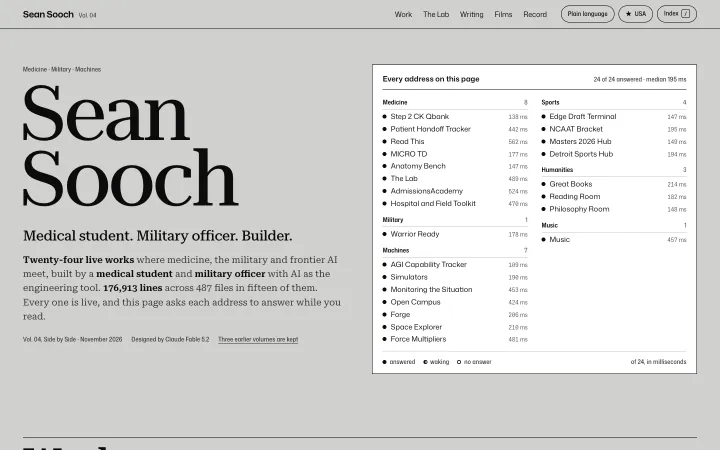
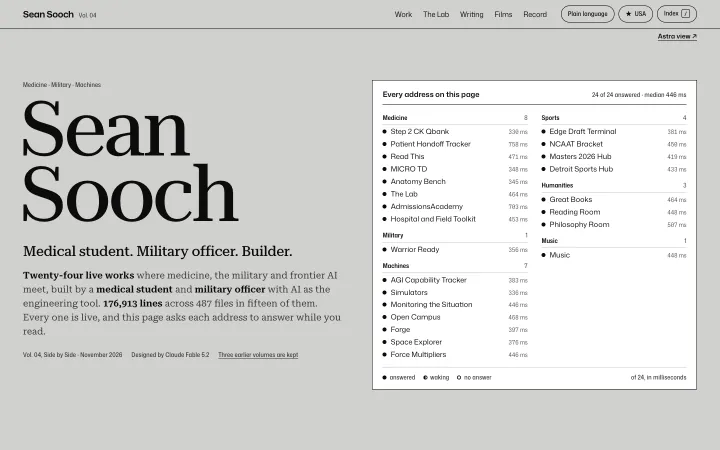
Works: Edge takes its second edition, "Card Back", and its plate
Edge (2026-11-22, Claude Fable 5.2): Edition 1 is retired to
edge-v1-a16.pages.dev and Edition 2 "Card Back" is current. The entry's two
tellings now say what the app does in season (a Sleeper or public ESPN league
sync), the stale-data note is gone because production carries today's
harvest, and the test count is restated at 22,560 lines. The plate is taken
from the live board with its player cards (plate_click closes the intro,
plate_scroll frames the cards); vol4 and card were retaken after it.

tools/plates.mjs: a work's plate_click is honoured, as a volume's already
was. tools/edition_test.py: the sitemap's home-page date moves to 2026-11-22,
the newest edition the page now shows.

Built on origin/main at 659703c. A first attempt was made on a tree seven
commits behind it; the pre-deploy audit showed lab/apps.json differing, which
was three shipped lessons this tree did not have, so nothing was uploaded and
the change was re-applied here.

Checks: edition_test 92 passed; edition-walk 504 checks, 0 problems.

diff --git a/index.html b/index.html
@@ -10,7 +10,7 @@
 <meta property="og:description" content="Twenty-four live works where medicine, the military and frontier AI meet, built by a medical student and military officer with AI as the engineering tool. 176,913 lines across 487 files in fifteen of them. Every one is live, and this page asks each address to answer while you read.">
 <meta property="og:type" content="website">
 <meta property="og:url" content="https://seansooch.dev/">
-<meta property="og:image" content="https://seansooch.dev/plates/card.jpg?v=da338b55b2">
+<meta property="og:image" content="https://seansooch.dev/plates/card.jpg?v=863c1e0227">
 <meta property="og:image:width" content="1200">
 <meta property="og:image:height" content="630">
 <meta name="twitter:card" content="summary_large_image">
@@ -156,15 +156,15 @@
       </header>
       <div class="cap">
         <p class="say"><span class="t">A course in core medicine, taught one picture at a time. Each lesson takes a single idea, starting with how the heart fills and empties, builds it step by step in plain language with animated visuals, then shows how disease and common drug classes change the picture. Educational only, not for clinical use.</span><span class="p">Short visual lessons that teach how the body works, one step at a time and in plain language. Start with the heart, then see what common medicines do to it. For learning only, not for patient care.</span></p>
-        <dl class="stats"><div><dt>lessons</dt><dd data-lab-n>27</dd></div><div><dt>units</dt><dd>9</dd></div><div><dt>first lesson</dt><dd>Oct 2026</dd></div></dl>
+        <dl class="stats"><div><dt>lessons</dt><dd data-lab-n>30</dd></div><div><dt>units</dt><dd>9</dd></div><div><dt>first lesson</dt><dd>Oct 2026</dd></div></dl>
         
         <p class="cap-foot"><a class="go" href="https://seansooch.dev/lab/" target="_blank" rel="noopener">Start the course<span aria-hidden="true"> ↗</span></a><span class="lbl host">seansooch.dev/lab</span></p>
       </div>
       
     </article>
     <div class="outline" data-worlds="med" aria-label="The course in outline">
-      <p class="lbl outline-h"><span><span data-lab-n>27</span> lessons in nine units. Educational only, not for clinical use.</span><a href="/lab/">The course page keeps your place<span aria-hidden="true"> →</span></a></p>
-      <div class="outline-cols"><div class="unit-col"><h5><span class="lbl">Unit 1</span>The heart, the kidney and blood pressure</h5><ul><li><a href="/lab/pressure-volume-loop/" data-lesson="pressure-volume-loop">Pressure–Volume Loop</a></li><li><a href="/lab/nephron-diuretics/" data-lesson="nephron-diuretics">The Nephron and Diuretics</a></li><li><a href="/lab/frank-starling-cardiac-output/" data-lesson="frank-starling-cardiac-output">Frank–Starling and Cardiac Output</a></li><li><a href="/lab/blood-pressure-regulation/" data-lesson="blood-pressure-regulation">Blood Pressure Regulation</a></li><li><a href="/lab/renin-angiotensin-aldosterone/" data-lesson="renin-angiotensin-aldosterone">The Renin–Angiotensin–Aldosterone System</a></li></ul></div><div class="unit-col"><h5><span class="lbl">Unit 2</span>Nerves, rhythm and muscle</h5><ul><li><a href="/lab/autonomic-synapse/" data-lesson="autonomic-synapse">The Autonomic Synapse</a></li><li><a href="/lab/cardiac-action-potential/" data-lesson="cardiac-action-potential">The Cardiac Action Potential</a></li><li><a href="/lab/neuromuscular-junction/" data-lesson="neuromuscular-junction">The Neuromuscular Junction</a></li></ul></div><div class="unit-col"><h5><span class="lbl">Unit 3</span>Breath and blood</h5><ul><li><a href="/lab/oxygen-hemoglobin-dissociation/" data-lesson="oxygen-hemoglobin-dissociation">Oxygen and Hemoglobin</a></li><li><a href="/lab/ventilation-perfusion/" data-lesson="ventilation-perfusion">Ventilation, Perfusion and the Alveolus</a></li><li><a href="/lab/acid-base/" data-lesson="acid-base">Acid–Base Balance</a></li><li><a href="/lab/coagulation-cascade/" data-lesson="coagulation-cascade">The Coagulation Cascade</a></li></ul></div><div class="unit-col"><h5><span class="lbl">Unit 4</span>Hormones</h5><ul><li><a href="/lab/insulin-glucose/" data-lesson="insulin-glucose">Insulin and Glucose</a></li><li><a href="/lab/thyroid-axis/" data-lesson="thyroid-axis">The Thyroid Axis</a></li><li><a href="/lab/hpa-axis-steroids/" data-lesson="hpa-axis-steroids">The HPA Axis and Steroids</a></li></ul></div><div class="unit-col"><h5><span class="lbl">Unit 5</span>The gut and drug handling</h5><ul><li><a href="/lab/gastric-acid-secretion/" data-lesson="gastric-acid-secretion">Stomach Acid and the Parietal Cell</a></li><li><a href="/lab/pharmacokinetics/" data-lesson="pharmacokinetics">Pharmacokinetics: Drug Levels Over Time</a></li></ul></div><div class="unit-col"><h5><span class="lbl">Unit 6</span>Inflammation, infection, immunity and cancer</h5><ul><li><a href="/lab/arachidonic-acid-nsaids/" data-lesson="arachidonic-acid-nsaids">Inflammation and the Arachidonic Acid Pathway</a></li><li><a href="/lab/bacterial-cell-antibiotics/" data-lesson="bacterial-cell-antibiotics">The Bacterial Cell and Antibiotic Targets</a></li><li><a href="/lab/immune-response/" data-lesson="immune-response">The Immune Response</a></li><li><a href="/lab/cell-cycle-chemotherapy/" data-lesson="cell-cycle-chemotherapy">The Cell Cycle and Chemotherapy</a></li></ul></div><div class="unit-col"><h5><span class="lbl">Unit 7</span>Water and calcium balance</h5><ul><li><a href="/lab/adh-water-balance/" data-lesson="adh-water-balance">ADH and Water Balance</a></li><li><a href="/lab/calcium-pth-vitamin-d/" data-lesson="calcium-pth-vitamin-d">Calcium, PTH and Vitamin D</a></li></ul></div><div class="unit-col"><h5><span class="lbl">Unit 8</span>Lung volumes</h5><ul><li><a href="/lab/spirometry-lung-volumes/" data-lesson="spirometry-lung-volumes">Spirometry and Lung Volumes</a></li></ul></div><div class="unit-col"><h5><span class="lbl">Unit 9</span>Cells, membranes and signals</h5><ul><li><a href="/lab/diffusion-osmosis-iv-fluids/" data-lesson="diffusion-osmosis-iv-fluids">Diffusion, Osmosis and IV Fluids</a></li><li><a href="/lab/na-k-pump-digoxin/" data-lesson="na-k-pump-digoxin">The Na⁺/K⁺ Pump (digoxin)</a></li><li><a href="/lab/resting-membrane-potential-potassium/" data-lesson="resting-membrane-potential-potassium">Resting Membrane Potential and Potassium</a></li></ul></div><div class="unit-col" data-lab-more hidden><h5><span class="lbl">Added since</span>Newest lessons</h5><ul data-lab-new></ul></div></div>
+      <p class="lbl outline-h"><span><span data-lab-n>30</span> lessons in nine units. Educational only, not for clinical use.</span><a href="/lab/">The course page keeps your place<span aria-hidden="true"> →</span></a></p>
+      <div class="outline-cols"><div class="unit-col"><h5><span class="lbl">Unit 1</span>The heart, the kidney and blood pressure</h5><ul><li><a href="/lab/pressure-volume-loop/" data-lesson="pressure-volume-loop">Pressure–Volume Loop</a></li><li><a href="/lab/nephron-diuretics/" data-lesson="nephron-diuretics">The Nephron and Diuretics</a></li><li><a href="/lab/frank-starling-cardiac-output/" data-lesson="frank-starling-cardiac-output">Frank–Starling and Cardiac Output</a></li><li><a href="/lab/blood-pressure-regulation/" data-lesson="blood-pressure-regulation">Blood Pressure Regulation</a></li><li><a href="/lab/renin-angiotensin-aldosterone/" data-lesson="renin-angiotensin-aldosterone">The Renin–Angiotensin–Aldosterone System</a></li></ul></div><div class="unit-col"><h5><span class="lbl">Unit 2</span>Nerves, rhythm and muscle</h5><ul><li><a href="/lab/autonomic-synapse/" data-lesson="autonomic-synapse">The Autonomic Synapse</a></li><li><a href="/lab/cardiac-action-potential/" data-lesson="cardiac-action-potential">The Cardiac Action Potential</a></li><li><a href="/lab/neuromuscular-junction/" data-lesson="neuromuscular-junction">The Neuromuscular Junction</a></li></ul></div><div class="unit-col"><h5><span class="lbl">Unit 3</span>Breath and blood</h5><ul><li><a href="/lab/oxygen-hemoglobin-dissociation/" data-lesson="oxygen-hemoglobin-dissociation">Oxygen and Hemoglobin</a></li><li><a href="/lab/ventilation-perfusion/" data-lesson="ventilation-perfusion">Ventilation, Perfusion and the Alveolus</a></li><li><a href="/lab/acid-base/" data-lesson="acid-base">Acid–Base Balance</a></li><li><a href="/lab/coagulation-cascade/" data-lesson="coagulation-cascade">The Coagulation Cascade</a></li></ul></div><div class="unit-col"><h5><span class="lbl">Unit 4</span>Hormones</h5><ul><li><a href="/lab/insulin-glucose/" data-lesson="insulin-glucose">Insulin and Glucose</a></li><li><a href="/lab/thyroid-axis/" data-lesson="thyroid-axis">The Thyroid Axis</a></li><li><a href="/lab/hpa-axis-steroids/" data-lesson="hpa-axis-steroids">The HPA Axis and Steroids</a></li></ul></div><div class="unit-col"><h5><span class="lbl">Unit 5</span>The gut and drug handling</h5><ul><li><a href="/lab/gastric-acid-secretion/" data-lesson="gastric-acid-secretion">Stomach Acid and the Parietal Cell</a></li><li><a href="/lab/pharmacokinetics/" data-lesson="pharmacokinetics">Pharmacokinetics: Drug Levels Over Time</a></li></ul></div><div class="unit-col"><h5><span class="lbl">Unit 6</span>Inflammation, infection, immunity and cancer</h5><ul><li><a href="/lab/arachidonic-acid-nsaids/" data-lesson="arachidonic-acid-nsaids">Inflammation and the Arachidonic Acid Pathway</a></li><li><a href="/lab/bacterial-cell-antibiotics/" data-lesson="bacterial-cell-antibiotics">The Bacterial Cell and Antibiotic Targets</a></li><li><a href="/lab/immune-response/" data-lesson="immune-response">The Immune Response</a></li><li><a href="/lab/cell-cycle-chemotherapy/" data-lesson="cell-cycle-chemotherapy">The Cell Cycle and Chemotherapy</a></li></ul></div><div class="unit-col"><h5><span class="lbl">Unit 7</span>Water and calcium balance</h5><ul><li><a href="/lab/adh-water-balance/" data-lesson="adh-water-balance">ADH and Water Balance</a></li><li><a href="/lab/calcium-pth-vitamin-d/" data-lesson="calcium-pth-vitamin-d">Calcium, PTH and Vitamin D</a></li></ul></div><div class="unit-col"><h5><span class="lbl">Unit 8</span>Lung volumes</h5><ul><li><a href="/lab/spirometry-lung-volumes/" data-lesson="spirometry-lung-volumes">Spirometry and Lung Volumes</a></li></ul></div><div class="unit-col"><h5><span class="lbl">Unit 9</span>Cells, membranes and signals</h5><ul><li><a href="/lab/diffusion-osmosis-iv-fluids/" data-lesson="diffusion-osmosis-iv-fluids">Diffusion, Osmosis and IV Fluids</a></li><li><a href="/lab/na-k-pump-digoxin/" data-lesson="na-k-pump-digoxin">The Na⁺/K⁺ Pump (digoxin)</a></li><li><a href="/lab/resting-membrane-potential-potassium/" data-lesson="resting-membrane-potential-potassium">Resting Membrane Potential and Potassium</a></li><li><a href="/lab/nerve-action-potential-local-anesthetics/" data-lesson="nerve-action-potential-local-anesthetics">Nerve Action Potential and Local Anesthetics</a></li><li><a href="/lab/myelin-conduction-velocity/" data-lesson="myelin-conduction-velocity">Myelin and Conduction Velocity (MS, GBS)</a></li><li><a href="/lab/ion-channels-channelopathies/" data-lesson="ion-channels-channelopathies">Ion Channels and Channelopathies (CFTR, congenital long QT)</a></li></ul></div><div class="unit-col" data-lab-more hidden><h5><span class="lbl">Added since</span>Newest lessons</h5><ul data-lab-new></ul></div></div>
     </div><article class="work pair" id="admissions" data-worlds="med">
       <figure class="plate-fig"><div class="plate plate-type" aria-hidden="true"><span>Admissions<wbr>Academy</span></div></figure>
       <header class="work-h">
@@ -316,18 +316,18 @@
         
       </article></div>
     </section><section class="world" id="world-sports" data-has="spt" aria-labelledby="world-spt">
-      <header class="world-h"><h3 id="world-spt">Sports</h3><p class="lbl">Four works, three with an earlier edition kept</p></header>
+      <header class="world-h"><h3 id="world-spt">Sports</h3><p class="lbl">Four works, four with an earlier edition kept</p></header>
       <article class="work pair" id="edge" data-worlds="spt">
-      <figure class="plate-fig"><a class="plate" href="https://edge-7yj.pages.dev/" target="_blank" rel="noopener" tabindex="-1" aria-hidden="true"><img src="/plates/edge-720.webp?v=2a5a944854" srcset="/plates/edge-720.webp?v=2a5a944854 720w, /plates/edge.webp?v=88160b10f8 1440w" sizes="(max-width: 860px) 92vw, 46vw" width="1440" height="900" alt="Edge Draft Terminal, as it looked on 9 Nov 2026" decoding="async" loading="lazy"></a></figure>
+      <figure class="plate-fig"><a class="plate" href="https://edge-7yj.pages.dev/" target="_blank" rel="noopener" tabindex="-1" aria-hidden="true"><img src="/plates/edge-720.webp?v=c8b54db21a" srcset="/plates/edge-720.webp?v=c8b54db21a 720w, /plates/edge.webp?v=fba4e25aab 1440w" sizes="(max-width: 860px) 92vw, 46vw" width="1440" height="900" alt="Edge Draft Terminal, as it looked on 22 Nov 2026" decoding="async" loading="lazy"></a></figure>
       <header class="work-h">
-        <p class="cap-top lbl"><span>Sports · Fantasy football</span><span class="live"><i class="dot" data-dot="edge"></i><span data-ms="edge">not asked yet</span><span class="note">data last harvested 6 Sep 2026</span></span></p>
+        <p class="cap-top lbl"><span>Sports · Fantasy football</span><span class="live"><i class="dot" data-dot="edge"></i><span data-ms="edge">not asked yet</span></span></p>
         <h4>Edge Draft Terminal</h4>
         
       </header>
       <div class="cap">
-        <p class="say"><span class="t">Draft intelligence terminal for a 12-team half-PPR league: an 862-player board valued on a weighted seven-source composite and read against the Sleeper room&#x27;s market price, weekly projections priced as points above replacement, Monte Carlo pick-path simulation in a worker, an in-season wire of injuries and market movers, and read-only replay of a live Sleeper draft room. Static PWA with CI-gated deploys and a test suite that also runs against production.</span><span class="p">A fantasy football draft assistant that blends seven rankings and markets into one value per player, flags bargains, simulates what happens before your next pick, and can follow a live Sleeper draft as it happens. Every update is tested end to end before it ships.</span></p>
-        <dl class="stats"><div><dt>players</dt><dd>862</dd></div><div><dt>sources</dt><dd>7</dd></div><div><dt>lines of tests</dt><dd>21,761</dd></div></dl>
-        <p class="lin lbl"><span>Edition 1 · 4 Aug 2026</span></p>
+        <p class="say"><span class="t">Fantasy football terminal for a 12-team half-PPR league, draft and season: an 862-player board valued on a weighted seven-source composite and read against the Sleeper room&#x27;s market price, weekly projections priced as points above replacement, Monte Carlo pick-path simulation in a worker, an in-season wire of injuries and market movers, a league sync that reads a Sleeper or public ESPN league&#x27;s rosters, lineups and matchup from keyless public APIs, and read-only replay of a live Sleeper draft room. Static PWA with a twice-daily harvest, CI-gated deploys and a test suite that also runs against production.</span><span class="p">A fantasy football assistant that blends seven rankings and markets into one value per player, flags bargains, and simulates what happens before your next pick. In season it reads your Sleeper or public ESPN league and shows this week&#x27;s lineup beside your opponent&#x27;s. Every update is tested end to end before it ships.</span></p>
+        <dl class="stats"><div><dt>players</dt><dd>862</dd></div><div><dt>sources</dt><dd>7</dd></div><div><dt>lines of tests</dt><dd>22,560</dd></div></dl>
+        <p class="lin lbl"><span>Edition 2, Card Back · Claude Fable 5.2 · 22 Nov 2026</span><span>Kept: <a href="https://edge-v1-a16.pages.dev" target="_blank" rel="noopener">Edition 1</a></span></p>
         <p class="cap-foot"><a class="go" href="https://edge-7yj.pages.dev/" target="_blank" rel="noopener">Open the draft terminal<span aria-hidden="true"> ↗</span></a><span class="lbl host">edge-7yj.pages.dev</span></p>
       </div>
       
@@ -560,7 +560,7 @@
     </div>
     <div class="colophon-facts">
       <p class="lbl">Set in Roboto Serif, by Greg Gazdowicz of Commercial Type, and Mona Sans, by GitHub.</p>
-      <p class="lbl">Counts recounted 10 Nov 2026. Plates captured 9 Nov 2026 to 17 Nov 2026. Round trips measured in your browser, now.</p>
+      <p class="lbl">Counts recounted 10 Nov 2026. Plates captured 9 Nov 2026 to 22 Nov 2026. Round trips measured in your browser, now.</p>
       <p class="lbl js-only" role="group" aria-label="Appearance">Appearance: <button class="link" type="button" data-theme-set="auto" aria-pressed="true">as your device</button> <button class="link" type="button" data-theme-set="light" aria-pressed="false">light</button> <button class="link" type="button" data-theme-set="dark" aria-pressed="false">dark</button> <button class="link" type="button" data-theme-set="usa" aria-pressed="false">USA</button></p>
       <p class="lbl">© 2026 Sean Sooch · <a href="/record/#editions">Earlier volumes are kept</a> · <a href="#top">Top</a></p>
     </div>

diff --git a/record/index.html b/record/index.html
@@ -10,7 +10,7 @@
 <meta property="og:description" content="How this site is made and kept, apart from the work: every edition it has had, what is counted from source, what your browser measures as you read, and an index of everything on it.">
 <meta property="og:type" content="website">
 <meta property="og:url" content="https://seansooch.dev/record/">
-<meta property="og:image" content="https://seansooch.dev/plates/card.jpg?v=da338b55b2">
+<meta property="og:image" content="https://seansooch.dev/plates/card.jpg?v=863c1e0227">
 <meta property="og:image:width" content="1200">
 <meta property="og:image:height" content="630">
 <meta name="twitter:card" content="summary_large_image">
@@ -95,7 +95,7 @@
         <p class="lbl">Retired with honors, November 2026.</p>
         <a class="go" href="https://seansooch-vol3.pages.dev/" target="_blank" rel="noopener">Open the archive<span aria-hidden="true"> ↗</span></a>
       </article><article class="vol" id="vol4">
-        <div class="plate"><img src="/plates/vol4-720.webp?v=6a64aace66" srcset="/plates/vol4-720.webp?v=6a64aace66 720w, /plates/vol4.webp?v=91e5033574 1440w" sizes="(max-width: 860px) 92vw, 23vw" width="1440" height="900" alt="Vol. 04, Side by Side" decoding="async" loading="lazy"></div>
+        <div class="plate"><img src="/plates/vol4-720.webp?v=dc452cceb1" srcset="/plates/vol4-720.webp?v=dc452cceb1 720w, /plates/vol4.webp?v=5e7e0ce66b 1440w" sizes="(max-width: 860px) 92vw, 23vw" width="1440" height="900" alt="Vol. 04, Side by Side" decoding="async" loading="lazy"></div>
         <p class="cap-top lbl"><span>Vol. 04</span><span>November 2026</span></p>
         <h3>Side by Side</h3>
         <p class="say-s">A neutral room: each work beside its own earlier edition, no color but the work&#x27;s. Designed by Claude Fable 5.2.</p>
@@ -138,9 +138,9 @@
     <h3 class="sub-h">The apps keep editions too</h3>
     <div class="table-wrap sheet"><table class="eds">
       <thead><tr><th scope="col">App</th><th scope="col">Current edition</th><th scope="col">Designed by</th><th scope="col">Issued</th><th scope="col">Kept</th></tr></thead>
-      <tbody><tr><th scope="row"><a href="/#step2">Step 2 CK Qbank</a></th><td>Edition 2, Workroom</td><td>Claude Opus 5.5</td><td>22 Sep 2026</td><td><a href="https://step2-ck-v1.pages.dev" target="_blank" rel="noopener">Edition 1</a></td></tr><tr><th scope="row"><a href="/#handoff">Patient Handoff Tracker</a></th><td>Edition 2, Chart Tab</td><td>Claude Opus 5.5</td><td>22 Sep 2026</td><td><a href="https://handoff-tracker-v1.pages.dev" target="_blank" rel="noopener">Edition 1</a></td></tr><tr><th scope="row"><a href="/#ekg">Read This</a></th><td>Edition 2, Reading Room</td><td>Claude Opus 5.5</td><td>22 Sep 2026</td><td><a href="https://ekg-v1.pages.dev" target="_blank" rel="noopener">Edition 1</a></td></tr><tr><th scope="row"><a href="/#microtd">MICRO TD</a></th><td>Edition 2, Oil Immersion</td><td>Claude Opus 5.5</td><td>22 Sep 2026</td><td><a href="https://micro-td-v1.pages.dev" target="_blank" rel="noopener">Edition 1</a></td></tr><tr><th scope="row"><a href="/#anatomy">Anatomy Bench</a></th><td>Edition 1, Run 01</td><td>Claude Fable 5.2</td><td>10 Nov 2026</td><td><span class="quiet">none yet</span></td></tr><tr><th scope="row"><a href="/#toolkit">Hospital and Field Toolkit</a></th><td>Edition 2, Pocket Cards</td><td>Claude Opus 5.5</td><td>22 Sep 2026</td><td><a href="https://toolkit-v1.pages.dev/toolkit/" target="_blank" rel="noopener">Edition 1</a></td></tr><tr><th scope="row"><a href="/#warrior">Warrior Ready</a></th><td>Edition 2, Scorecard</td><td>Claude Opus 5.5</td><td>22 Sep 2026</td><td><a href="https://warrior-ready-v1.pages.dev" target="_blank" rel="noopener">Edition 1</a></td></tr><tr><th scope="row"><a href="/#agi">AGI Capability Tracker</a></th><td>Edition 4, Blueshift</td><td>Claude Opus 5.5</td><td>6 Oct 2026</td><td><a href="https://agi-tracker-v3.pages.dev" target="_blank" rel="noopener">Edition 3, The Ledger</a>, <a href="https://agi-tracker-v2.pages.dev" target="_blank" rel="noopener">Edition 2</a></td></tr><tr><th scope="row"><a href="/#sims">Simulators</a></th><td>Edition 2, Drawing Set</td><td>Claude Opus 5.5</td><td>22 Sep 2026</td><td><a href="https://simulators-v1.pages.dev" target="_blank" rel="noopener">Edition 1</a></td></tr><tr><th scope="row"><a href="/#situation">Monitoring the Situation</a></th><td>Edition 3, The Broadsheet</td><td>Claude Opus 5.5</td><td>14 Nov 2026</td><td><span class="quiet">none yet</span></td></tr><tr><th scope="row"><a href="/#forge">Forge</a></th><td>Edition 2, Casting Floor</td><td>Claude Opus 5.5</td><td>22 Sep 2026</td><td><a href="https://forge-v1.pages.dev" target="_blank" rel="noopener">Edition 1</a></td></tr><tr><th scope="row"><a href="/#space">Space Explorer</a></th><td>Edition 2, Flight Plan</td><td>Claude Opus 5.5</td><td>22 Sep 2026</td><td><a href="https://cic-dashboard-v1.pages.dev" target="_blank" rel="noopener">Edition 1</a></td></tr><tr><th scope="row"><a href="/#multipliers">Force Multipliers</a></th><td>Edition 1, Briefing Cards</td><td>Claude Opus 5.5</td><td>10 Oct 2026</td><td><span class="quiet">none yet</span></td></tr><tr><th scope="row"><a href="/#edge">Edge Draft Terminal</a></th><td>Edition 1</td><td></td><td>4 Aug 2026</td><td><span class="quiet">none yet</span></td></tr><tr><th scope="row"><a href="/#ncaat">NCAAT Bracket</a></th><td>Edition 2, Studio</td><td>Claude Opus 5.5</td><td>23 Sep 2026</td><td><a href="https://ncaat-bracket-2026-v1.pages.dev" target="_blank" rel="noopener">Edition 1</a></td></tr><tr><th scope="row"><a href="/#masters">Masters 2026 Hub</a></th><td>Edition 2, Big Board</td><td>Claude Opus 5.5</td><td>22 Sep 2026</td><td><a href="https://masters-2026-v1.pages.dev" target="_blank" rel="noopener">Edition 1</a></td></tr><tr><th scope="row"><a href="/#detroit">Detroit Sports Hub</a></th><td>Edition 2, Woodward</td><td>Claude Opus 5.5</td><td>22 Sep 2026</td><td><a href="https://detroit-sports-v1.pages.dev" target="_blank" rel="noopener">Edition 1</a></td></tr><tr><th scope="row"><a href="/#greatbooks">Great Books</a></th><td>Edition 2, Tri-band</td><td>Claude Opus 5.5</td><td>22 Sep 2026</td><td><a href="https://great-books-v1.pages.dev" target="_blank" rel="noopener">Edition 1</a></td></tr><tr><th scope="row"><a href="/#reading">Reading Room</a></th><td>Edition 2, The Stacks</td><td>Claude Opus 5.5</td><td>22 Sep 2026</td><td><a href="https://reading-room-v1.pages.dev" target="_blank" rel="noopener">Edition 1</a></td></tr><tr><th scope="row"><a href="/#philosophy">Philosophy Room</a></th><td>Edition 2, Black-Figure</td><td>Claude Opus 5.5</td><td>22 Sep 2026</td><td><a href="https://philosophy-room-v1.pages.dev" target="_blank" rel="noopener">Edition 1</a></td></tr></tbody>
+      <tbody><tr><th scope="row"><a href="/#step2">Step 2 CK Qbank</a></th><td>Edition 2, Workroom</td><td>Claude Opus 5.5</td><td>22 Sep 2026</td><td><a href="https://step2-ck-v1.pages.dev" target="_blank" rel="noopener">Edition 1</a></td></tr><tr><th scope="row"><a href="/#handoff">Patient Handoff Tracker</a></th><td>Edition 2, Chart Tab</td><td>Claude Opus 5.5</td><td>22 Sep 2026</td><td><a href="https://handoff-tracker-v1.pages.dev" target="_blank" rel="noopener">Edition 1</a></td></tr><tr><th scope="row"><a href="/#ekg">Read This</a></th><td>Edition 2, Reading Room</td><td>Claude Opus 5.5</td><td>22 Sep 2026</td><td><a href="https://ekg-v1.pages.dev" target="_blank" rel="noopener">Edition 1</a></td></tr><tr><th scope="row"><a href="/#microtd">MICRO TD</a></th><td>Edition 2, Oil Immersion</td><td>Claude Opus 5.5</td><td>22 Sep 2026</td><td><a href="https://micro-td-v1.pages.dev" target="_blank" rel="noopener">Edition 1</a></td></tr><tr><th scope="row"><a href="/#anatomy">Anatomy Bench</a></th><td>Edition 1, Run 01</td><td>Claude Fable 5.2</td><td>10 Nov 2026</td><td><span class="quiet">none yet</span></td></tr><tr><th scope="row"><a href="/#toolkit">Hospital and Field Toolkit</a></th><td>Edition 2, Pocket Cards</td><td>Claude Opus 5.5</td><td>22 Sep 2026</td><td><a href="https://toolkit-v1.pages.dev/toolkit/" target="_blank" rel="noopener">Edition 1</a></td></tr><tr><th scope="row"><a href="/#warrior">Warrior Ready</a></th><td>Edition 2, Scorecard</td><td>Claude Opus 5.5</td><td>22 Sep 2026</td><td><a href="https://warrior-ready-v1.pages.dev" target="_blank" rel="noopener">Edition 1</a></td></tr><tr><th scope="row"><a href="/#agi">AGI Capability Tracker</a></th><td>Edition 4, Blueshift</td><td>Claude Opus 5.5</td><td>6 Oct 2026</td><td><a href="https://agi-tracker-v3.pages.dev" target="_blank" rel="noopener">Edition 3, The Ledger</a>, <a href="https://agi-tracker-v2.pages.dev" target="_blank" rel="noopener">Edition 2</a></td></tr><tr><th scope="row"><a href="/#sims">Simulators</a></th><td>Edition 2, Drawing Set</td><td>Claude Opus 5.5</td><td>22 Sep 2026</td><td><a href="https://simulators-v1.pages.dev" target="_blank" rel="noopener">Edition 1</a></td></tr><tr><th scope="row"><a href="/#situation">Monitoring the Situation</a></th><td>Edition 3, The Broadsheet</td><td>Claude Opus 5.5</td><td>14 Nov 2026</td><td><span class="quiet">none yet</span></td></tr><tr><th scope="row"><a href="/#forge">Forge</a></th><td>Edition 2, Casting Floor</td><td>Claude Opus 5.5</td><td>22 Sep 2026</td><td><a href="https://forge-v1.pages.dev" target="_blank" rel="noopener">Edition 1</a></td></tr><tr><th scope="row"><a href="/#space">Space Explorer</a></th><td>Edition 2, Flight Plan</td><td>Claude Opus 5.5</td><td>22 Sep 2026</td><td><a href="https://cic-dashboard-v1.pages.dev" target="_blank" rel="noopener">Edition 1</a></td></tr><tr><th scope="row"><a href="/#multipliers">Force Multipliers</a></th><td>Edition 1, Briefing Cards</td><td>Claude Opus 5.5</td><td>10 Oct 2026</td><td><span class="quiet">none yet</span></td></tr><tr><th scope="row"><a href="/#edge">Edge Draft Terminal</a></th><td>Edition 2, Card Back</td><td>Claude Fable 5.2</td><td>22 Nov 2026</td><td><a href="https://edge-v1-a16.pages.dev" target="_blank" rel="noopener">Edition 1</a></td></tr><tr><th scope="row"><a href="/#ncaat">NCAAT Bracket</a></th><td>Edition 2, Studio</td><td>Claude Opus 5.5</td><td>23 Sep 2026</td><td><a href="https://ncaat-bracket-2026-v1.pages.dev" target="_blank" rel="noopener">Edition 1</a></td></tr><tr><th scope="row"><a href="/#masters">Masters 2026 Hub</a></th><td>Edition 2, Big Board</td><td>Claude Opus 5.5</td><td>22 Sep 2026</td><td><a href="https://masters-2026-v1.pages.dev" target="_blank" rel="noopener">Edition 1</a></td></tr><tr><th scope="row"><a href="/#detroit">Detroit Sports Hub</a></th><td>Edition 2, Woodward</td><td>Claude Opus 5.5</td><td>22 Sep 2026</td><td><a href="https://detroit-sports-v1.pages.dev" target="_blank" rel="noopener">Edition 1</a></td></tr><tr><th scope="row"><a href="/#greatbooks">Great Books</a></th><td>Edition 2, Tri-band</td><td>Claude Opus 5.5</td><td>22 Sep 2026</td><td><a href="https://great-books-v1.pages.dev" target="_blank" rel="noopener">Edition 1</a></td></tr><tr><th scope="row"><a href="/#reading">Reading Room</a></th><td>Edition 2, The Stacks</td><td>Claude Opus 5.5</td><td>22 Sep 2026</td><td><a href="https://reading-room-v1.pages.dev" target="_blank" rel="noopener">Edition 1</a></td></tr><tr><th scope="row"><a href="/#philosophy">Philosophy Room</a></th><td>Edition 2, Black-Figure</td><td>Claude Opus 5.5</td><td>22 Sep 2026</td><td><a href="https://philosophy-room-v1.pages.dev" target="_blank" rel="noopener">Edition 1</a></td></tr></tbody>
     </table></div>
-    <p class="say-s wide"><span class="t">What changed since Vol. 03 was issued in September, beyond the design. The five views are retired together and the site is one edition again, built from one record, so a count can no longer disagree with itself between pages. Great Books, AdmissionsAcademy, the music, Monitoring the Situation and Force Multipliers joined the work, and the Lab opened in October. Sixteen apps now have an earlier edition kept at its own address, most of them redesigned from a blank page by Claude Opus 5.5 in September. Every description was checked again on 9 November 2026 against the source and the live app, and corrected where the app had moved on or the claim was more than the record supports. The lines were recounted from source: 176,913 in 487 files, up from 150,906 in 247. Two things this edition adds that no earlier volume had: the work itself, shown as it looks today, and each earlier edition set beside it.</span><span class="p">Since the last edition: the five switchable designs were retired and the site is one design again. A medicine course was added, along with a tracker of what the internet is talking about, a set of how-to cards and a music page. Most of the apps were redesigned, and their old versions are still online. Every description was checked again against the real app. This edition also shows you a picture of every app, and can put the old version next to the new one.</span></p>
+    <p class="say-s wide"><span class="t">What changed since Vol. 03 was issued in September, beyond the design. The five views are retired together and the site is one edition again, built from one record, so a count can no longer disagree with itself between pages. Great Books, AdmissionsAcademy, the music, Monitoring the Situation and Force Multipliers joined the work, and the Lab opened in October. Seventeen apps now have an earlier edition kept at its own address, most of them redesigned from a blank page by Claude Opus 5.5 in September. Every description was checked again on 9 November 2026 against the source and the live app, and corrected where the app had moved on or the claim was more than the record supports. The lines were recounted from source: 176,913 in 487 files, up from 150,906 in 247. Two things this edition adds that no earlier volume had: the work itself, shown as it looks today, and each earlier edition set beside it.</span><span class="p">Since the last edition: the five switchable designs were retired and the site is one design again. A medicine course was added, along with a tracker of what the internet is talking about, a set of how-to cards and a music page. Most of the apps were redesigned, and their old versions are still online. Every description was checked again against the real app. This edition also shows you a picture of every app, and can put the old version next to the new one.</span></p>
   </section>
   <section class="sec" id="record" aria-labelledby="record-h">
     <span class="alias" id="ch1"></span><span class="alias" id="ch2"></span>
@@ -188,7 +188,7 @@
     </div>
     <div class="colophon-facts">
       <p class="lbl">Set in Roboto Serif, by Greg Gazdowicz of Commercial Type, and Mona Sans, by GitHub.</p>
-      <p class="lbl">Counts recounted 10 Nov 2026. Plates captured 9 Nov 2026 to 17 Nov 2026. Round trips measured in your browser, now.</p>
+      <p class="lbl">Counts recounted 10 Nov 2026. Plates captured 9 Nov 2026 to 22 Nov 2026. Round trips measured in your browser, now.</p>
       <p class="lbl js-only" role="group" aria-label="Appearance">Appearance: <button class="link" type="button" data-theme-set="auto" aria-pressed="true">as your device</button> <button class="link" type="button" data-theme-set="light" aria-pressed="false">light</button> <button class="link" type="button" data-theme-set="dark" aria-pressed="false">dark</button> <button class="link" type="button" data-theme-set="usa" aria-pressed="false">USA</button></p>
       <p class="lbl">© 2026 Sean Sooch · <a href="/record/#editions">Earlier volumes are kept</a> · <a href="#top">Top</a></p>
     </div>

diff --git a/astra/index.html b/astra/index.html
@@ -10,7 +10,7 @@
 <meta property="og:description" content="An illustrated field notebook of medicine, military service and software by Sean Sooch.">
 <meta property="og:type" content="website">
 <meta property="og:url" content="https://seansooch.dev/astra/">
-<meta property="og:image" content="https://seansooch.dev/plates/card.jpg?v=da338b55b2">
+<meta property="og:image" content="https://seansooch.dev/plates/card.jpg?v=863c1e0227">
 <meta property="og:image:width" content="1200">
 <meta property="og:image:height" content="630">
 <meta name="twitter:card" content="summary_large_image">
@@ -111,9 +111,9 @@
               <p><a class="ink-link" href="https://seansooch.dev/force-multipliers/">Open the cards ↗</a></p>
               </div></div></details></div></section><section class="shelf" id="world-sports"><h3>Sports <small>(4)</small></h3><div><details class="entry" id="edge" data-entry="edge">
               <summary><span>Edge Draft Terminal</span><small>Fantasy football</small></summary>
-              <div class="entry-body"><div><img src="/plates/edge-720.webp?v=2a5a944854" srcset="/plates/edge-720.webp?v=2a5a944854 720w, /plates/edge.webp?v=88160b10f8 1440w" sizes="(max-width:700px) 85vw, 30vw" width="1440" height="900" alt="Edge Draft Terminal" decoding="async" loading="lazy"></div><div><p class="say"><span class="t">Draft intelligence terminal for a 12-team half-PPR league: an 862-player board valued on a weighted seven-source composite and read against the Sleeper room&#x27;s market price, weekly projections priced as points above replacement, Monte Carlo pick-path simulation in a worker, an in-season wire of injuries and market movers, and read-only replay of a live Sleeper draft room. Static PWA with CI-gated deploys and a test suite that also runs against production.</span><span class="p">A fantasy football draft assistant that blends seven rankings and markets into one value per player, flags bargains, simulates what happens before your next pick, and can follow a live Sleeper draft as it happens. Every update is tested end to end before it ships.</span></p>
+              <div class="entry-body"><div><img src="/plates/edge-720.webp?v=c8b54db21a" srcset="/plates/edge-720.webp?v=c8b54db21a 720w, /plates/edge.webp?v=fba4e25aab 1440w" sizes="(max-width:700px) 85vw, 30vw" width="1440" height="900" alt="Edge Draft Terminal" decoding="async" loading="lazy"></div><div><p class="say"><span class="t">Fantasy football terminal for a 12-team half-PPR league, draft and season: an 862-player board valued on a weighted seven-source composite and read against the Sleeper room&#x27;s market price, weekly projections priced as points above replacement, Monte Carlo pick-path simulation in a worker, an in-season wire of injuries and market movers, a league sync that reads a Sleeper or public ESPN league&#x27;s rosters, lineups and matchup from keyless public APIs, and read-only replay of a live Sleeper draft room. Static PWA with a twice-daily harvest, CI-gated deploys and a test suite that also runs against production.</span><span class="p">A fantasy football assistant that blends seven rankings and markets into one value per player, flags bargains, and simulates what happens before your next pick. In season it reads your Sleeper or public ESPN league and shows this week&#x27;s lineup beside your opponent&#x27;s. Every update is tested end to end before it ships.</span></p>
               <p><a class="ink-link" href="https://edge-7yj.pages.dev/">Open the draft terminal ↗</a></p>
-              </div></div></details><details class="entry" id="ncaat" data-entry="ncaat">
+              <p>Archive · <a href="https://edge-v1-a16.pages.dev">Edition 1</a> </p></div></div></details><details class="entry" id="ncaat" data-entry="ncaat">
               <summary><span>NCAAT Bracket</span><small>Hoops</small></summary>
               <div class="entry-body"><div><img src="/plates/ncaat-720.webp?v=864b838b1e" srcset="/plates/ncaat-720.webp?v=864b838b1e 720w, /plates/ncaat.webp?v=5008718234 1440w" sizes="(max-width:700px) 85vw, 30vw" width="1440" height="900" alt="NCAAT Bracket" decoding="async" loading="lazy"></div><div><p class="say"><span class="t">Archive of the finished 2026 men&#x27;s tournament: all 67 games from a frozen ESPN snapshot, every first-edition model graded against the results, and an interactive bracket that scores your own picks. A sourced fact-check found 531 first-edition claims to correct, all listed on the page.</span><span class="p">The finished 2026 March Madness, kept as an archive: every game, plus a report card on how each prediction model actually did. Fill in your own bracket to see how it would have scored.</span></p>
               <p><a class="ink-link" href="https://ncaat-bracket-2026.pages.dev/">Open the archive ↗</a></p>

diff --git a/two-stories/index.html b/two-stories/index.html
@@ -10,7 +10,7 @@
 <meta property="og:description" content="An origin story is a starting condition plus a rule, and the evidence only ever reaches the rule. Part I sets the Big Bang beside a generated origin, takes four objections seriously (tidiness, cheating, motive, and proving too much), and shows that two of them force the second story to change.">
 <meta property="og:type" content="article">
 <meta property="og:url" content="https://seansooch.dev/two-stories/">
-<meta property="og:image" content="https://seansooch.dev/plates/card.jpg?v=da338b55b2">
+<meta property="og:image" content="https://seansooch.dev/plates/card.jpg?v=863c1e0227">
 <meta property="og:image:width" content="1200">
 <meta property="og:image:height" content="630">
 <meta name="twitter:card" content="summary_large_image">

diff --git a/lab/index.html b/lab/index.html
@@ -10,7 +10,7 @@
 <meta property="og:description" content="The Lab: a course in core medicine in eleven units, taught one picture at a time. Step-by-step visual lessons in plain language, each with goals, predictions, a quiz and a summary. Educational only, not for clinical use.">
 <meta property="og:type" content="website">
 <meta property="og:url" content="https://seansooch.dev/lab/">
-<meta property="og:image" content="https://seansooch.dev/plates/card.jpg?v=da338b55b2">
+<meta property="og:image" content="https://seansooch.dev/plates/card.jpg?v=863c1e0227">
 <meta property="og:image:width" content="1200">
 <meta property="og:image:height" content="630">
 <meta name="twitter:card" content="summary_large_image">

diff --git a/404.html b/404.html
@@ -8,7 +8,7 @@
 <meta property="og:title" content="Nothing at this address · Sean Sooch">
 <meta property="og:description" content="There is no page at this address on seansooch.dev.">
 <meta property="og:type" content="website">
-<meta property="og:image" content="https://seansooch.dev/plates/card.jpg?v=da338b55b2">
+<meta property="og:image" content="https://seansooch.dev/plates/card.jpg?v=863c1e0227">
 <meta property="og:image:width" content="1200">
 <meta property="og:image:height" content="630">
 <meta name="twitter:card" content="summary_large_image">

diff --git a/tools/edition_test.py b/tools/edition_test.py
@@ -941,7 +941,7 @@ class Tree(Base):
         want = {'/': home, '/record/': max(ed['issued'], ed['counted']), '/two-stories/': ed['issued'], '/lab/': max(lessons.values())}
         want |= {f'/lab/{s}/': d for s, d in lessons.items()}
         self.assertEqual({p: d for p, d in got.items() if d}, want)
-        self.assertEqual(home, '2026-11-14', 'the home page is dated by the newest edition of a work it shows')
+        self.assertEqual(home, '2026-11-22', 'the home page is dated by the newest edition of a work it shows')
         self.assertEqual(sm.count('<changefreq>'), 0, 'Google ignores changefreq and priority; lastmod is the signal')
         self.assertEqual(sm.count('<priority>'), 0)
 
